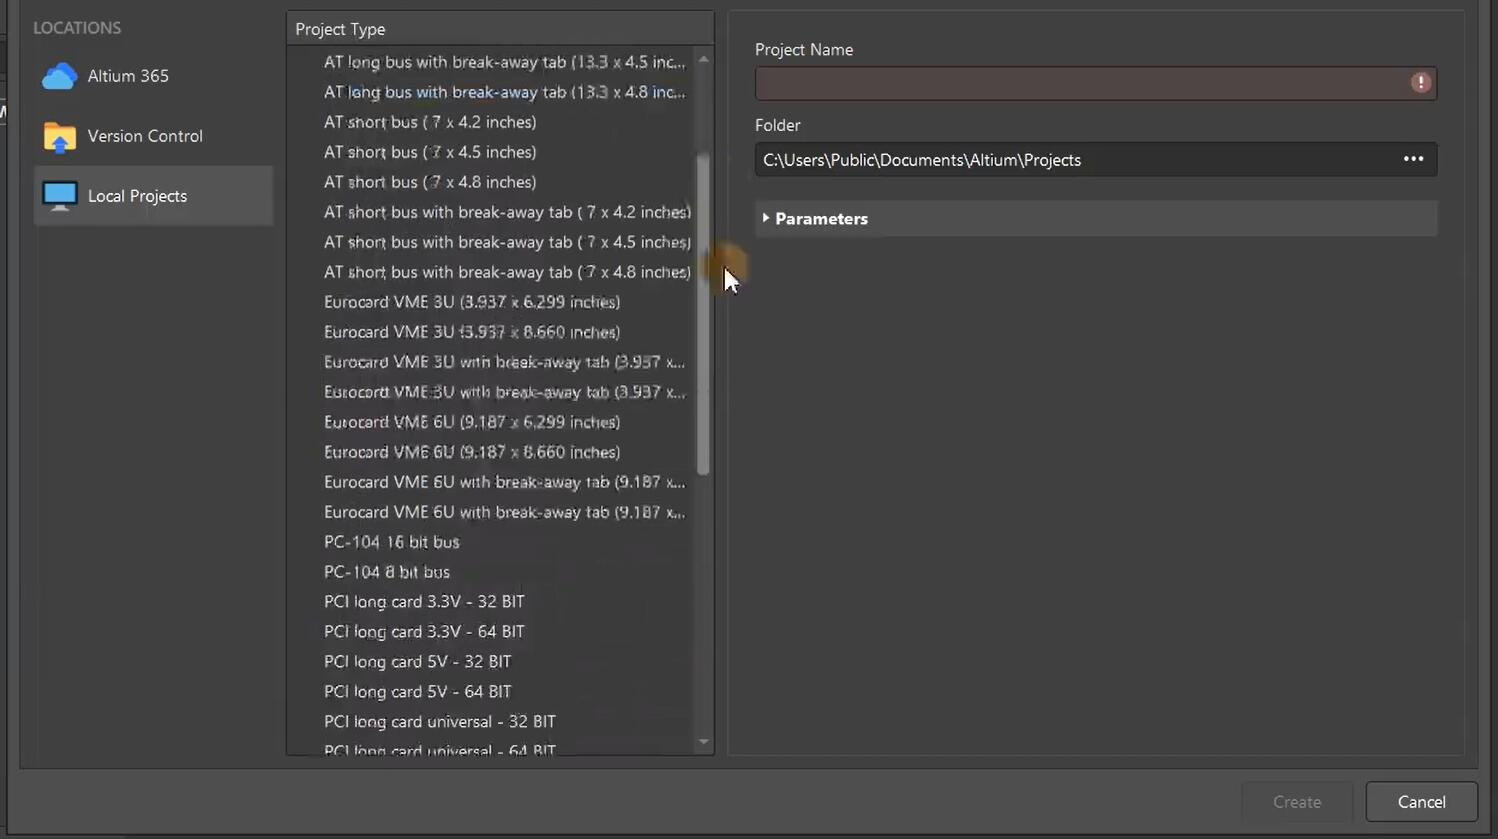
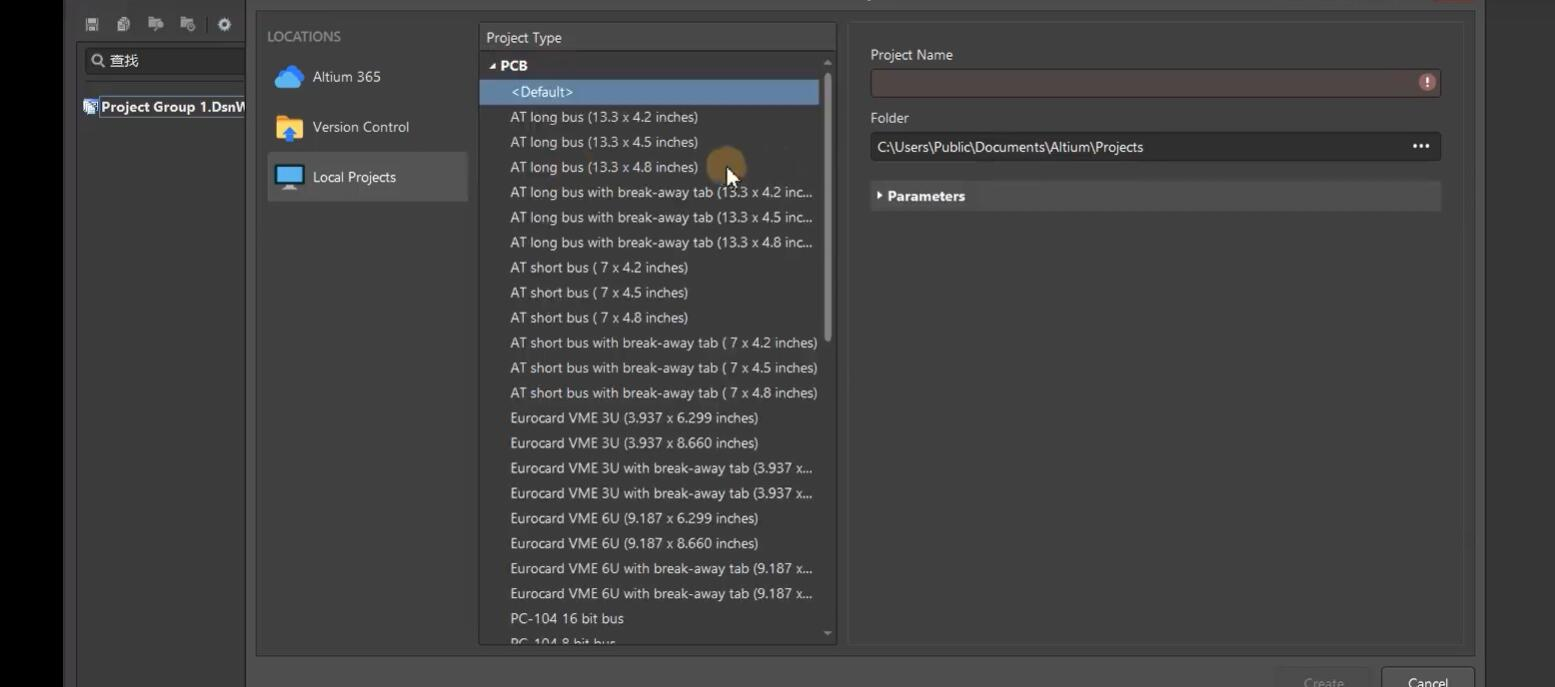
Site updated: 2021-02-18 19:32:49

Changed region(s): [[0.0, 0.0, 1.0, 1.0], [0.9212, 0.1834, 0.9519, 0.214]]

diff --git a/2021/02/18/altium-designer-20-bi-ji-yi-ad-gong-cheng-zu-cheng-ji-chuang-jian/index.html b/2021/02/18/altium-designer-20-bi-ji-yi-ad-gong-cheng-zu-cheng-ji-chuang-jian/index.html
@@ -388,9 +388,31 @@
 <h2 id="AD20-工程创建流程"><a href="#AD20-工程创建流程" class="headerlink" title="AD20 工程创建流程"></a>AD20 工程创建流程</h2><h5 id="首先，我们要创建一个空的工程项目"><a href="#首先，我们要创建一个空的工程项目" class="headerlink" title="首先，我们要创建一个空的工程项目"></a>首先，我们要创建一个空的工程项目</h5><p>选择 <code>文件</code> -&gt; <code>新的..</code> -&gt;  <code>项目</code></p>
 <img src=" ../../../../images/ad20_note/note1/新建工程.jpg" style="zoom:50%;" />
 
-<h5 id="接着，我们要选择项目类型"><a href="#接着，我们要选择项目类型" class="headerlink" title="接着，我们要选择项目类型"></a>接着，我们要选择项目类型</h5><p>选择 <code>文件</code> -&gt; <code>新的..</code> -&gt;  <code>项目</code></p>
+<h5 id="接着，我们要选择工程类型"><a href="#接着，我们要选择工程类型" class="headerlink" title="接着，我们要选择工程类型"></a>接着，我们要选择工程类型</h5><p>选择 <code>PCB</code> -&gt; <code>Default</code></p>
 <img src=" ../../../../images/ad20_note/note1/工程类型页面.jpg" style="zoom:50%;" />
 
+<p>一般设计画电路板，我们选择PCB选项。点击到<code>PCB</code>这个选项展开，defult选项是由我们自建工程属性，其他的选项，是软件预先帮我们设计好的demo工程。</p>
+<h5 id="给工程命名和设置存放路径"><a href="#给工程命名和设置存放路径" class="headerlink" title="给工程命名和设置存放路径"></a>给工程命名和设置存放路径</h5><p>选择 <code>PCB</code> -&gt; <code>Default</code></p>
+<img src=" ../../../../images/ad20_note/note1/工程类型页面-配置属性.jpg" style="zoom:75%;" />
+
+<p>路径一定要重新设置，默认是指向AD的根目录或者默认的工作区的。</p>
+<p>工程名字根据自己习惯命名。</p>
+<h5 id="给工程创建原理图和库"><a href="#给工程创建原理图和库" class="headerlink" title="给工程创建原理图和库"></a>给工程创建原理图和库</h5><p>选择 <code>文件</code> -&gt; <code>新的..</code> -&gt; <code>库</code> -&gt; <code>原理图库</code> 和 <code>PCB元件库</code></p>
+<p>选择 <code>文件</code> -&gt; <code>新的..</code> -&gt; <code>原理图</code> 和 <code>PCB</code></p>
+<img src=" ../../../../images/ad20_note/note1/主页面-创建库.jpg" style="zoom:75%;" />
+
+<p>如果你有自己的库，可以先不创建库，直接创建原理图，后面再把库导入进来。PCB我们也可以不用先创建，画好原理图后，再创建也不迟。</p>
+<p><strong>特别强调，每一个文件建好以后，都要保存 ctrl+s快捷键保存。</strong></p>
+<p>文件保存的路径默认是工程的路径。</p>
+<h5 id="总结"><a href="#总结" class="headerlink" title="总结"></a>总结</h5><img src=" ../../../../images/ad20_note/note1/工程树.jpg" style="zoom:75%;" />
+
+<p>一般我们创建完毕工程以后，就是四个文件：<code>原理图</code>、<code>PCB</code>、<code>原理图库</code>、<code>PCB元件库</code>。后两个库如果有现成的，可以直接导入进来。</p>
+<p>我们在初次创建工程的时候，可能遇到的问题有：</p>
+<ul>
+<li>工程路径没有设置好，导致下次找不到工程文件；</li>
+<li>工程下的各文件是单独建立的，导致各文件没有产生正确的依赖关系，比如原理图无法更新到PCB中；</li>
+<li>文件建立以后，没有及时保存，导致工程树中看不到。</li>
+</ul>
 
                 
             </div>
